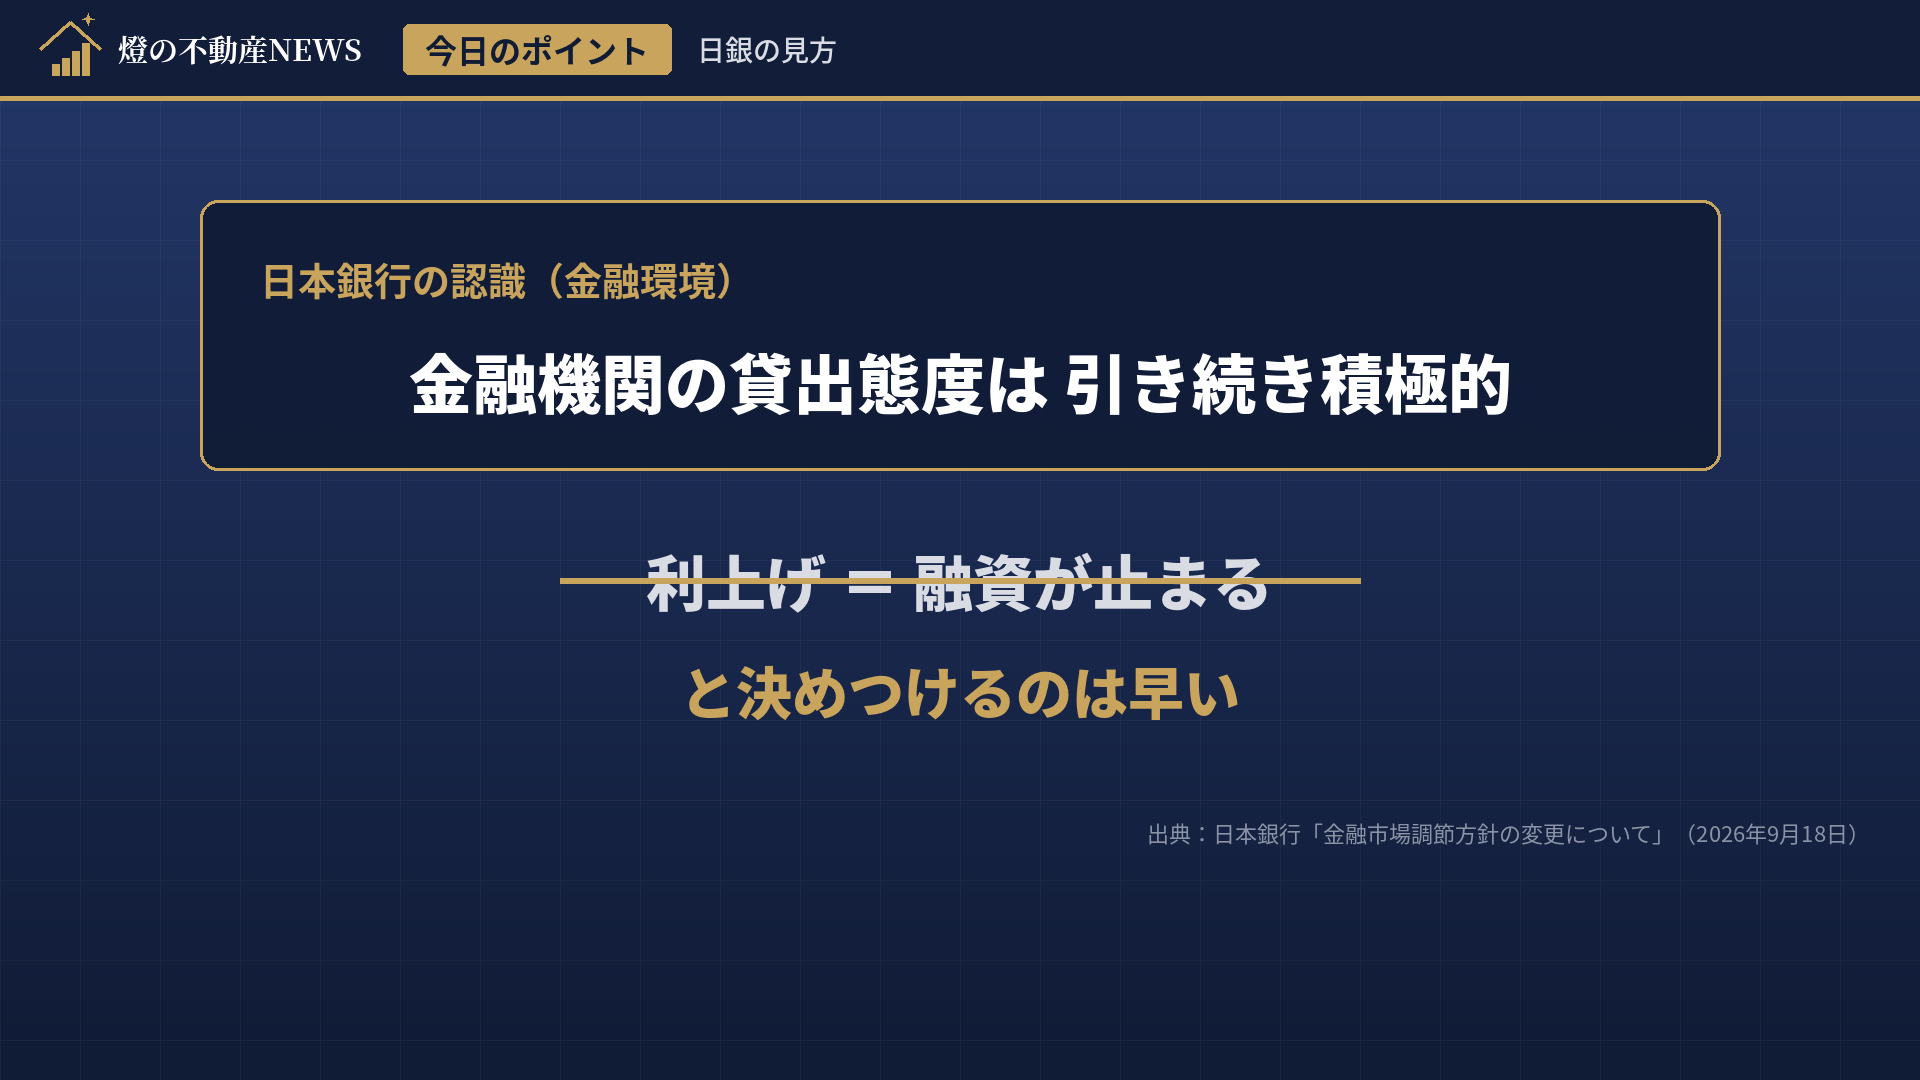
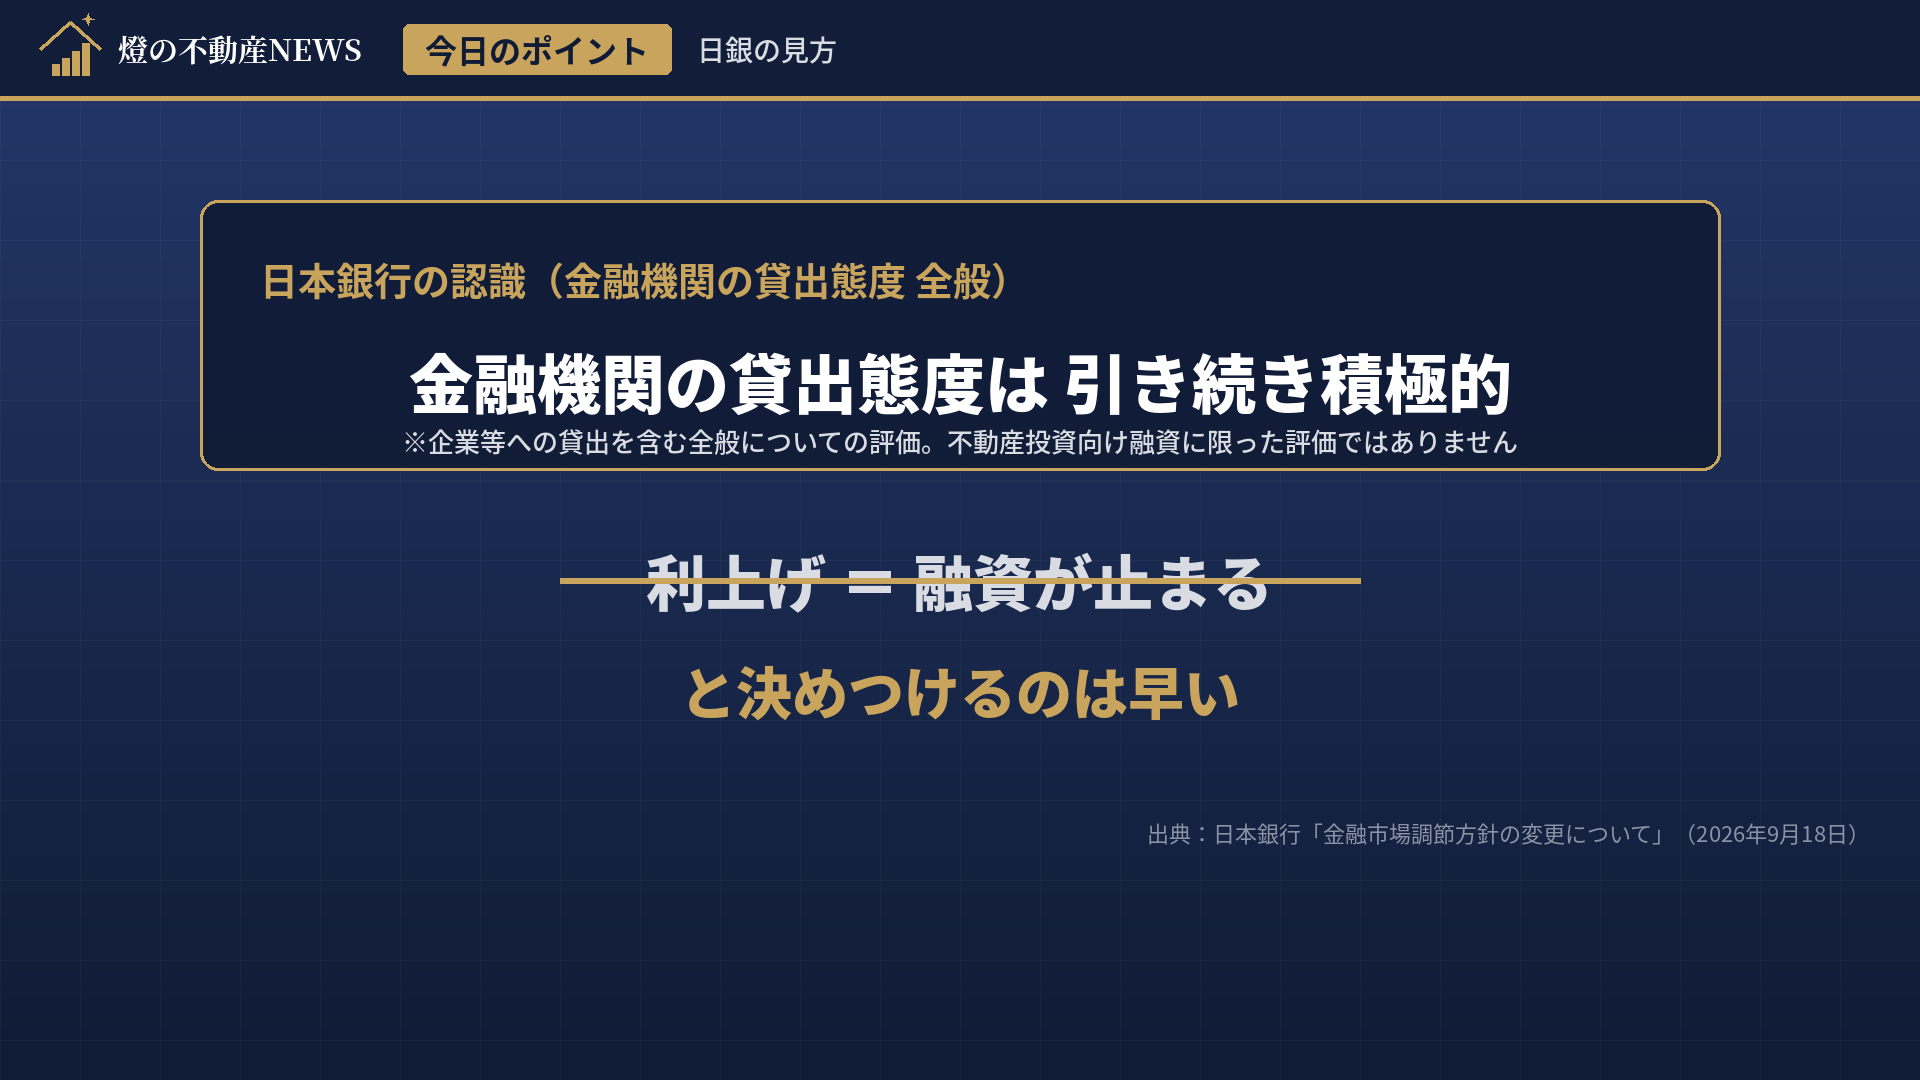
Record BoJ primary-source check, fix lending wording, add HeyGen ingest
- facts F1-F4 marked verified against the BoJ statement (owner side);
  lending-attitude line now says it is the BoJ's view on lending overall,
  not on real-estate investment loans; G10b carries the same note
- TTS readings aligned with the 2026-09-25 table
- ingest: check received HeyGen files (names, audio, resolution, aspect,
  duration, no MP3) and place them into clips/, voice/final/, test folder
- PRODUCTION_MASTERS: HeyGen avatar names AKARI_MASTER_v1 / OOKA_M_MASTER_v1
  (manual registration pending) and the settings fields to record

Claude-Session: https://claude.ai/code/session_017UfkR6Y3GS2dsXFHmBpCak

Changed region(s): [[0.2188, 0.3972, 0.7812, 0.4278], [0.3125, 0.2444, 0.5312, 0.275]]

diff --git a/tools/akari_news/ingest.py b/tools/akari_news/ingest.py
@@ -1,0 +1,135 @@
+"""HeyGen から届いたファイルを検査して、所定の場所に配置する。
+
+  python3 -m tools.akari_news.ingest episode_001 <受け取ったフォルダ>
+  python3 -m tools.akari_news.ingest episode_001 <フォルダ> --dry-run   # 検査だけ
+
+受け取るもの（ファイル名は制作シートの id と完全一致）：
+  heygen_akari.mp4 / heygen_ooka_m.mp4          → avatar_tests/video_test/heygen/
+  AKARI_001〜018.mp4 / M_001〜006.mp4            → episode/clips/
+  AKARI_VO_001〜018 / M_VO_001〜002（.wav/.mp4） → episode/voice/final/（.wav は48kHz/24bitに統一）
+
+検査：名前の過不足、音声の有無、解像度（16:9 は 1080p 以上、縦型は 1080x1920 以上）、縦横比、
+尺の目安とのずれ（仮音声の尺の 0.5〜2.0 倍）、MP3 の拒否（MP3 経由は禁止）。
+"""
+import argparse
+import csv
+import json
+import shutil
+from pathlib import Path
+
+from .audio_prep import convert
+from .common import YT, episode_dir, load_json
+from .compare_video import video_info
+
+
+def expected(ep_id):
+    d = episode_dir(ep_id)
+    ver = load_json(d / "script" / f"{ep_id}.json").get("script_version", "v1")
+    prod = d / "production"
+    clips = list(csv.DictReader(open(prod / f"clip_manifest_{ver}.csv", encoding="utf-8-sig")))
+    voices = [v for v in csv.DictReader(open(prod / f"voice_manifest_{ver}.csv", encoding="utf-8-sig"))
+              if "_VO_" in v["id"]]
+    return d, clips, voices
+
+
+def check_video(p, aspect, est=None):
+    info = video_info(p)
+    probs = []
+    if not info["has_audio"]:
+        probs.append("音声なし")
+    w, h = info["width"] or 0, info["height"] or 0
+    if aspect == "9:16":
+        if w > h:
+            probs.append(f"縦型のはずが横長（{w}x{h}）")
+        if min(w, h) < 1080:
+            probs.append(f"解像度不足（{w}x{h}、1080x1920以上）")
+    else:
+        if h > w:
+            probs.append(f"横長のはずが縦型（{w}x{h}）")
+        if h < 1080:
+            probs.append(f"解像度不足（{w}x{h}、1920x1080以上）")
+        if w and h and abs(w / h - 16 / 9) > 0.02:
+            probs.append(f"16:9ではない（{w}x{h}）")
+    if est and info["duration"] and not (0.5 * est <= info["duration"] <= 2.0 * est + 1.0):
+        probs.append(f"尺が目安と大きく違う（{info['duration']:.1f}秒／目安{est:.1f}秒）→ 文章違いの可能性")
+    return info, probs
+
+
+def main(argv=None):
+    ap = argparse.ArgumentParser(description=__doc__, formatter_class=argparse.RawDescriptionHelpFormatter)
+    ap.add_argument("episode")
+    ap.add_argument("src")
+    ap.add_argument("--dry-run", action="store_true")
+    a = ap.parse_args(argv)
+    src = Path(a.src)
+    files = {p.stem: p for p in src.rglob("*") if p.is_file()}
+    d, clips, voices = expected(a.episode)
+    report = {"ok": [], "problems": [], "missing": [], "unexpected": []}
+
+    def place(p, dst_dir, name):
+        if a.dry_run:
+            return
+        dst_dir.mkdir(parents=True, exist_ok=True)
+        shutil.copy2(p, dst_dir / f"{name}{p.suffix.lower()}")
+
+    # テスト動画
+    for name in ("heygen_akari", "heygen_ooka_m"):
+        p = files.pop(name, None)
+        if p is None:
+            report["missing"].append(name)
+            continue
+        info, probs = check_video(p, "16:9")
+        (report["problems"] if probs else report["ok"]).append({"id": name, "info": info, "problems": probs})
+        place(p, YT / "avatar_tests" / "video_test" / "heygen", name)
+    # 話しているカット
+    for c in clips:
+        p = files.pop(c["id"], None)
+        if p is None:
+            report["missing"].append(c["id"])
+            continue
+        if p.suffix.lower() != ".mp4":
+            report["problems"].append({"id": c["id"], "problems": [f"mp4 ではない（{p.suffix}）"]})
+            continue
+        info, probs = check_video(p, c["aspect"], float(c["est_sec"] or 0))
+        (report["problems"] if probs else report["ok"]).append({"id": c["id"], "info": info, "problems": probs})
+        place(p, d / "clips", c["id"])
+    # 声だけのパート
+    for v in voices:
+        p = files.pop(v["id"], None)
+        if p is None:
+            report["missing"].append(v["id"])
+            continue
+        ext = p.suffix.lower()
+        if ext == ".mp3":
+            report["problems"].append({"id": v["id"], "problems": ["MP3 は受け付けない（WAV か mp4 で）"]})
+            continue
+        if ext in (".wav", ".flac"):
+            if not a.dry_run:
+                rep = convert(p, d / "voice" / "final")
+                report["ok"].append({"id": v["id"], "audio": rep})
+            else:
+                report["ok"].append({"id": v["id"]})
+        elif ext == ".mp4":
+            info = video_info(p)
+            if not info["has_audio"]:
+                report["problems"].append({"id": v["id"], "problems": ["音声なし"]})
+                continue
+            report["ok"].append({"id": v["id"], "info": info})
+            place(p, d / "voice" / "final", v["id"])
+        else:
+            report["problems"].append({"id": v["id"], "problems": [f"未対応の形式（{ext}）"]})
+    report["unexpected"] = sorted(files)
+    out = d / "review" / "ingest_report.json"
+    if not a.dry_run:
+        out.write_text(json.dumps(report, ensure_ascii=False, indent=2), encoding="utf-8")
+    print(f"OK {len(report['ok'])} / 問題 {len(report['problems'])} / 未着 {len(report['missing'])} / 想定外 {len(report['unexpected'])}")
+    for x in report["problems"]:
+        print("問題", x["id"], "：", "、".join(x["problems"]))
+    if report["missing"]:
+        print("未着：", " ".join(report["missing"]))
+    if report["unexpected"]:
+        print("想定外のファイル名：", " ".join(report["unexpected"]))
+
+
+if __name__ == "__main__":
+    main()

diff --git a/tools/akari_news/graphics.py b/tools/akari_news/graphics.py
@@ -461,8 +461,9 @@ def g_lending():
     im = base(); header(im, "今日のポイント", "日銀の見方")
     d = ImageDraw.Draw(im, "RGBA")
     panel(d, (200, 200, 1720, 470), "NAVY_DEEP", 235, "GOLD")
-    text(d, (260, 250), "日本銀行の認識（金融環境）", 38, "GOLD", "sans_bold")
+    text(d, (260, 250), "日本銀行の認識（金融機関の貸出態度 全般）", 38, "GOLD", "sans_bold")
     text(d, (W / 2, 380), "金融機関の貸出態度は 引き続き積極的", 64, "WHITE", "sans_black", "mm")
+    text(d, (W / 2, 440), "※企業等への貸出を含む全般についての評価。不動産投資向け融資に限った評価ではありません", 26, "LIGHT_GRAY", "sans_medium", "mm")
     text(d, (W / 2, 580), "利上げ ＝ 融資が止まる", 60, "LIGHT_GRAY", "sans_black", "mm")
     d.line([(560, 580), (1360, 580)], fill=hexrgb(C["GOLD"]), width=6)
     text(d, (W / 2, 690), "と決めつけるのは早い", 56, "GOLD", "sans_black", "mm")

diff --git a/tools/akari_news/build_episode.py b/tools/akari_news/build_episode.py
@@ -21,11 +21,10 @@ SPEAKER_JA = {"akari": "燈", "ooka_m": "大家M"}
 # 読み上げ用の読み（字幕表記はそのまま、TTSだけ置換）。長いものから順に置換する。
 READINGS = {
     "1.25％": "いってんにーごパーセント",
-    "1.0％": "いってんれいパーセント",
-    "2.00％": "にーてんれいれいパーセント",
-    "2.25％": "にーてんにーごパーセント",
+    "1.0％": "いってんぜろパーセント",
+    "2.00％": "にてんぜろぜろパーセント",
+    "2.25％": "にてんにーごパーセント",
     "0.5％": "れいてんごパーセント",
-    "1.0％": "いってんれいパーセント",
     "1％": "いちパーセント",
     "0.25ポイント": "れいてんにーごポイント",
     "DSCR": "ディーエスシーアール",

diff --git a/youtube/akari_news/episode_001/review/V2_STATUS.md b/youtube/akari_news/episode_001/review/V2_STATUS.md
@@ -19,7 +19,7 @@
 | ⑪ | 図表に軽いアニメーション | ✅ | カウントアップ・バー伸長・矢印・比較表とまとめの段階表示（出だし約1秒、その後静止） |
 | ⑫ | BGMあり | ✅（仮） | 自作の落ち着いたBGM（権利フリー）。声の下で自動的に音量を下げる。既製曲への差し替えも可 |
 | ⑬ | 字幕同期済み | ⏳ | 仕組みは対応済み（本番音声を置けば自動で再同期）。重要語は金色で強調 |
-| ⑭ | 日銀一次資料照合済み | ❌ | 制作環境から boj.or.jp に接続できない。人間が公表文PDFで照合が必要 |
+| ⑭ | 日銀一次資料照合済み | ✅ | 2026-09-25 オーナー側で照合済み。貸出態度の表現を「全般について」に修正（§15） |
 | ⑮ | 自動公開していない | ✅ | アップロード機能なし |
 
 ## 提出物（§19）
@@ -39,8 +39,9 @@
 
 ## 素材が届いたら（こちらの作業は自動）
 
-1. 話しているカット24本 → `clips/AKARI_001.mp4` 〜 `AKARI_018.mp4`、`clips/M_001.mp4` 〜 `M_006.mp4`
-2. 声だけのパート20本 → `voice/final/AKARI_VO_001.wav` 〜、`M_VO_001.wav`（mp4 でも可）
+1. 受け取ったファイルを1つのフォルダに入れて `python3 -m tools.akari_news.ingest episode_001 <フォルダ>`
+   （名前の過不足・音声・解像度・縦横比・尺・MP3 を検査し、`clips/`・`voice/final/`・テスト動画置き場に配置）
+2. テスト動画2本は `avatar_tests/review/video_scores.csv` で採点 → 24点以上で TALKING_VIDEO_SETTINGS_v1 を固定
 3. `python3 -m tools.akari_news.timeline episode_001` → `python3 -m tools.akari_news.video episode_001 --bgm auto`（Shorts は `--shorts`）
 4. 出演比率・字幕同期・尺チェックは自動。最後に人間が目視確認
 
@@ -51,3 +52,4 @@
 - 数字のカウントアップ中は途中の値が一瞬表示される（約1秒）。気になる場合はフェード表示に切り替え可能。
 - BGM は自作の仮。YouTube の音源ライブラリ等の既製曲に差し替える場合は、ファイルを `--bgm` に渡すだけ。
 - 本番音声は仮音声より尺が変わるため、目次の時刻（概要欄）は第2稿完成後に更新する。
+- 2026-09-25：AKARI_VO_015 の文章を変更（貸出態度の表現。§15）。HeyGen にはこの新しい文章で入れる。

diff --git a/brand/PRODUCTION_MASTERS.md b/brand/PRODUCTION_MASTERS.md
@@ -12,13 +12,15 @@
 | M_VOICE_MASTER_v1 | 大家Mの声：**Satoshi**（HeyGen voice_id `662e1397965c484e8f65fa58c77effde`、速度 0.95、Japanese、元候補 M_VOICE_A） | ✅ 正式採用 | 2026-09-25 | 同上 |
 | AKARI_TALKING_BASE_16x9_v1 ／ _9x16_v1 ／ AKARI_DESK_BASE_v1 | 燈の基本画像（`brand/akari/talking_base/`） | ✅ 正式採用 | 2026-09-25 | 同上 |
 | OOKA_M_TALKING_BASE_16x9_v1 | 大家Mの基本画像（`brand/ooka_m/talking_base/`） | ✅ 正式採用 | 2026-09-25 | 同上 |
+| HeyGen アバター（燈） | 名前 **AKARI_MASTER_v1**（画像 AKARI_TALKING_BASE_16x9_v1、Photo Avatar 等） | 手動登録待ち（avatar_id 未記録） | — | 指示書 2026-09-25「HeyGen手動登録後の生成フロー」 |
+| HeyGen アバター（大家M） | 名前 **OOKA_M_MASTER_v1**（画像 OOKA_M_TALKING_BASE_16x9_v1）。本人登録（デジタルツイン）ではない | 手動登録待ち（avatar_id 未記録） | — | 同上 |
 | TALKING_VIDEO_ENGINE_v1 | 話している動画の生成ツール（第一候補：HeyGen） | 未決定（heygen_akari / heygen_ooka_m のテスト待ち） | — | `youtube/akari_news/avatar_tests/review/video_scores.csv`・`compare_*.json` |
 | TALKING_VIDEO_SETTINGS_v1 | 採用ツールの設定（予定：動き Minimal/Subtle、表情 Low、頭 Minimal、手 Minimal、視線 Camera） | 未決定（テストで確定） | — | `youtube/akari_news/avatar_tests/review/settings_log.md` |
 
 ## 決定時に記録すること
 
 - 声：サービス名、声の名前とID、ライブラリか Voice Design か、モデル、速度、Stability、Style、Speaker Boost、出力形式（WAV → 48kHz/24bit）
-- 動画：ツール名、プラン、アバター方式、全設定値、使用した基本画像（`avatar_tests/base_stills/`）
+- 動画：Avatar方式、Avatar ID、Voice ID、Speed、Motion、Expression、Head Movement、Hand Movement、Eye Contact、Resolution、Aspect Ratio、生成日、プラン名（`avatar_tests/review/settings_log.md` の表）
 - 規約：`avatar_tests/review/commercial_terms_check.md` の確認日とURL
 
 ## API自動化に進む条件（指示書 §25）

diff --git a/youtube/akari_news/avatar_tests/review/settings_log.md b/youtube/akari_news/avatar_tests/review/settings_log.md
@@ -1,22 +1,28 @@
-# テスト時の設定記録
+# HeyGen 生成時の設定記録
 
-後で同じ品質を再現できるよう、生成するたびに記録する（指示書 §28：採用後は TALKING_VIDEO_SETTINGS_v1 として固定）。
+合格した設定を TALKING_VIDEO_SETTINGS_v1 として固定する（指示書 2026-09-25 §10）。**動画ごとに設定を変えない。**
 
-## 音声（ElevenLabs）
+## アバター登録
 
-| voice_id | 声の名前 | ライブラリ／Voice Design | モデル | 速度 | Stability | Style | Speaker Boost | 出力形式 | 日付 |
-|---|---|---|---|---|---|---|---|---|---|
-| AKARI_VOICE_A | | | | | | | | WAV | |
-| AKARI_VOICE_B | | | | | | | | WAV | |
-| AKARI_VOICE_C | | | | | | | | WAV | |
-| M_VOICE_A | | | | | | | | WAV | |
-| M_VOICE_B | | | | | | | | WAV | |
+| HeyGen内の名前 | 画像 | 方式 | Avatar ID | 登録日 |
+|---|---|---|---|---|
+| AKARI_MASTER_v1 | AKARI_TALKING_BASE_16x9_v1 | Photo Avatar 等 | | |
+| OOKA_M_MASTER_v1 | OOKA_M_TALKING_BASE_16x9_v1 | Photo Avatar 等（本人登録ではない） | | |
 
-## 動画（HeyGen / Hedra）
+## テスト動画
 
-| ファイル | ツール | プラン | アバター方式（Photo Avatar／Avatar IV 等） | 動き | 表情 | 頭の動き | 手の動き | 視線 | その他 | 日付 |
-|---|---|---|---|---|---|---|---|---|---|---|
-| heygen_akari.mp4 | HeyGen | | | | | | | | | |
-| heygen_ooka_m.mp4 | HeyGen | | | | | | | | | |
-| hedra_akari.mp4 | Hedra | | | | | | | | | |
-| hedra_ooka_m.mp4 | Hedra | | | | | | | | | |
+| 項目 | heygen_akari.mp4 | heygen_ooka_m.mp4 |
+|---|---|---|
+| Avatar方式 | | |
+| Avatar ID | | |
+| Voice ID | 9530fac2d1f148f8b57b51b783b0df13（Jhenny） | 662e1397965c484e8f65fa58c77effde（Satoshi） |
+| Speed | 0.90 | 0.95 |
+| Motion | | |
+| Expression | | |
+| Head Movement | | |
+| Hand Movement | | |
+| Eye Contact | | |
+| Resolution | | |
+| Aspect Ratio | 16:9 | 16:9 |
+| 生成日 | | |
+| プラン名 | | |

diff --git a/youtube/akari_news/episode_001/production/clip_manifest_v2.md b/youtube/akari_news/episode_001/production/clip_manifest_v2.md
@@ -58,7 +58,7 @@
 | M_VO_001 | 大家M | 10.9 | それでも返済できるのか。DSCRがどこまで下がるのか。返済比率がどこまで上がるのか。そこまで見てから判断します。 |
 | M_VO_002 | 大家M | 11.9 | 保有物件と購入候補について、現在金利、プラス0.5％、プラス1.0％の3パターンで年間返済額を出してみる。まずはこれです。 |
 | AKARI_VO_014 | 燈 | 14.7 | 今回、日銀は政策金利を1.25％程度へ引き上げました。ただ、大家さんが見るべき数字は3つです。年間返済額。返済比率。DSCR。 |
-| AKARI_VO_015 | 燈 | 14.4 | そして日銀は、足元の金融環境について、金融機関の貸出態度は引き続き積極的との見方も示しています。ですから、今回の利上げだけを見て、融資が止まると決めつけるのも早いでしょう。 |
+| AKARI_VO_015 | 燈 | 14.4 | そして日銀は、金融機関の貸出態度全般について、引き続き積極的との見方を示しています。ですから、今回の利上げだけを見て、融資が止まると決めつけるのも早いでしょう。 |
 | AKARI_VO_016 | 燈 | 5.3 | では、大家さんが見るべき数字は何か。ポイントは3つです。 |
 | AKARI_VO_017 | 燈 | 11.6 | 1つ目は年間返済額。1億円・30年の単純試算では、2.00％から2.25％になると、年間およそ15万円増えます。 |
 | AKARI_VO_018 | 燈 | 5.8 | 詳しい解説は本編でお届けしています。あかりの不動産ニュースでした。 |

diff --git a/youtube/akari_news/episode_001/references/primary_source_check.md b/youtube/akari_news/episode_001/references/primary_source_check.md
@@ -1,6 +1,24 @@
 # episode_001 一次資料確認メモ
 
-確認日：2026-09-24　確認者：Claude Code（自動）　**判定：一次資料の本文は未照合 → 公開前に人間の照合が必須**
+確認日：2026-09-24（Claude Code：二次情報まで）／**2026-09-25 オーナー側（燈）が一次資料で照合済み**
+
+## 2026-09-25 一次資料照合結果（指示書「HeyGen手動登録後の生成フロー」§14）
+
+| ID | 内容 | 結果 |
+|---|---|---|
+| F1 | 無担保コールレート（オーバーナイト物）を1.25％程度で推移するよう促す | ✅ 公表文に明記 |
+| F2 | 従来は1.0％程度 | ✅ 確認 |
+| F3 | 2026年9月24日から適用 | ✅ 明記 |
+| F4 | 「企業等の資金需要は増加しており、金融機関の貸出態度も引き続き積極的である」という趣旨 | ✅ 同日の公表文に記載 |
+
+**表現上の注意（§15）**：F4 は企業等への貸出態度全般についての日銀の評価であり、不動産投資向け融資に限った評価ではない。
+- NG：「不動産投資融資は引き続き積極的です。」
+- 台本（修正済み）：「そして日銀は、金融機関の貸出態度全般について、引き続き積極的との見方を示しています。」
+- 図表 G10b にも「※企業等への貸出を含む全般についての評価。不動産投資向け融資に限った評価ではありません」を追記
+
+---
+
+## 2026-09-24 時点の記録（参考）
 
 ## 対象資料
 

diff --git a/youtube/akari_news/episode_001/script/episode_001_script_v2.md b/youtube/akari_news/episode_001/script/episode_001_script_v2.md
@@ -133,7 +133,7 @@
 **燈**：今回、日銀は政策金利を1.25％程度へ引き上げました。ただ、大家さんが見るべき数字は3つです。年間返済額。返済比率。DSCR。  
 <sub>gfx:G10_summary</sub>
 
-**燈**：そして日銀は、足元の金融環境について、金融機関の貸出態度は引き続き積極的との見方も示しています。ですから、今回の利上げだけを見て、融資が止まると決めつけるのも早いでしょう。  
+**燈**：そして日銀は、金融機関の貸出態度全般について、引き続き積極的との見方を示しています。ですから、今回の利上げだけを見て、融資が止まると決めつけるのも早いでしょう。  
 <sub>gfx:G10b_lending / 事実:F4</sub>
 
 ## S10 エンディング（計画 5:15-）
